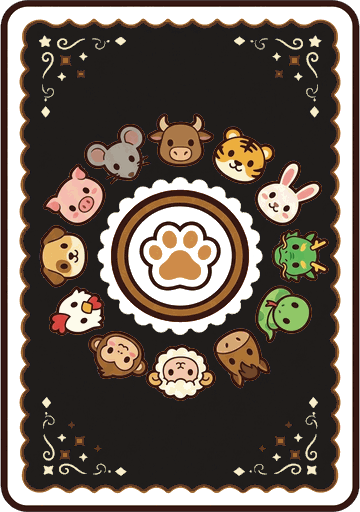
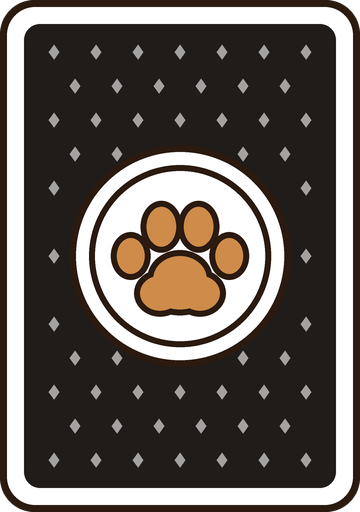
feat(casino): 트럼프 뒷면을 단순하게 — 12띠 얼굴 빼고 흐린 마름모 · 큰 흰 원 · 발바닥 (휴대폰에서 작게 보여도 깔끔)

diff --git a/games/lib/cards.ts b/games/lib/cards.ts
@@ -56,8 +56,8 @@ export function drawTable(scene: Scene, game: 'matgo' | 'poker' | 'holdem' | 'bl
 // ---------- 카드 뒷면 ----------
 
 /**
- * 카드 뒷면: 트럼프는 흰 테두리 + --card-back(짙은 먹색), 화투는 --primary(노랑) 바탕에 12띠가 원형으로 둘러선 문양. 한 번만 그려 텍스처로 둔다.
- * back-casino: 트럼프 / back-hwatu: 화투 (같은 무늬, 화투 비율)
+ * 카드 뒷면: 트럼프는 흰 테두리 + --card-back(짙은 먹색) + 가운데 흰 원·발바닥, 화투는 --primary(노랑) 바탕에 12띠가 원형으로 둘러선 문양. 한 번만 그려 텍스처로 둔다.
+ * back-casino: 트럼프 / back-hwatu: 화투 (화투 비율)
  */
 export function cardBack(scene: Scene, key: 'back-casino' | 'back-hwatu') {
   if (scene.textures.exists(key)) return key;
@@ -69,10 +69,25 @@ export function cardBack(scene: Scene, key: 'back-casino' | 'back-hwatu') {
   const r = key === 'back-hwatu' ? 18 : 16;
   g.fillStyle(C.outline, 1).fillRoundedRect(0, 0, W, H, r);
   if (key === 'back-casino') {
-    // 트럼프: 흰 테두리 띠 안에 짙은 먹색 바탕
+    // 트럼프 (그림 shared/images/cards/back.png 와 같은 단순한 모양): 흰 테두리 띠 · 먹색 바탕 · 가운데 흰 원 + 발바닥
     g.fillStyle(C.white, 1).fillRoundedRect(4, 4, W - 8, H - 8, r - 3);
     g.fillStyle(C.cardBack, 1).fillRoundedRect(9, 9, W - 18, H - 18, r - 5);
-  } else g.fillStyle(C.primary, 1).fillRoundedRect(4, 4, W - 8, H - 8, r - 3);
+    const cx = W / 2;
+    const cy = H / 2;
+    g.fillStyle(C.white, 1).fillCircle(cx, cy, W * 0.29);
+    g.lineStyle(2.5, C.outline, 1).strokeCircle(cx, cy, W * 0.24);
+    // 발바닥: 큰 패드 하나 + 발가락 넷
+    g.fillStyle(C.primaryDeep, 1).fillEllipse(cx, cy + 8, 30, 24);
+    g.lineStyle(2.5, C.outline, 1).strokeEllipse(cx, cy + 8, 30, 24);
+    for (const [dx, dy] of [[-17, -4], [-7, -14], [7, -14], [17, -4]]) {
+      g.fillStyle(C.primaryDeep, 1).fillEllipse(cx + dx, cy + dy, 10, 13);
+      g.lineStyle(2, C.outline, 1).strokeEllipse(cx + dx, cy + dy, 10, 13);
+    }
+    rt.draw(g);
+    g.destroy();
+    return key;
+  }
+  g.fillStyle(C.primary, 1).fillRoundedRect(4, 4, W - 8, H - 8, r - 3);
   g.lineStyle(3, C.white, 0.9).strokeRoundedRect(11, 11, W - 22, H - 22, r - 6);
   g.fillStyle(C.panel, 1).fillCircle(W / 2, H / 2, W * 0.43);
   g.lineStyle(3, C.outline, 1).strokeCircle(W / 2, H / 2, W * 0.43);

diff --git a/games/lib/shell.ts b/games/lib/shell.ts
@@ -842,7 +842,7 @@ async function roomScreen(ui: GameUI, m: Mods, me: WorldUser, roomId: string) {
           this.load.image(`full-${z}`, m.z.fullUrl(z));
         }
         // 트럼프 뒷면 그림 (못 불러오면 cards.ts가 코드로 그린다)
-        this.load.image('back-casino', new URL('shared/images/cards/back.png?v=ink5', worldRoot()).href);
+        this.load.image('back-casino', new URL('shared/images/cards/back.png?v=simple1', worldRoot()).href);
         ui.preload?.(this, m.z.avatarUrl);
       },
       create(this: PhaserNS.Scene) {

diff --git a/scripts/make-card-back.py b/scripts/make-card-back.py
@@ -1,0 +1,77 @@
+# 카지노 트럼프 뒷면 (shared/images/cards/back.png) 그리기. 저장소 루트에서: python scripts/make-card-back.py
+# 11-26 C안: 먹색 바탕 + 흐린 작은 마름모 + 흰 테두리 띠 + 가운데 흰 원 + 주황 발바닥 (A·B안도 back() 인자로 다시 그릴 수 있다)
+import os, math
+from PIL import Image, ImageDraw
+
+REPO = os.path.dirname(os.path.dirname(os.path.abspath(__file__)))
+W, H, SS = 360, 512, 4
+
+def rgb(n, a=255): return ((n >> 16) & 255, (n >> 8) & 255, n & 255, a)
+OUTLINE = rgb(0x2a1a10); INK = rgb(0x1f1c1a); WHITE = rgb(0xffffff)
+PAW = (206, 139, 73, 255)          # 지금 뒷면의 발바닥 주황 (그림에서 읽은 값)
+FELTS = [rgb(0x468c59), rgb(0x4b7fb4)]
+
+def paw(d, cx, cy, s, fill, edge=None, ew=0):
+    """발바닥: 큰 볼록살 + 발가락 4개. s = 전체 폭. edge 가 있으면 먼저 조금 크게 그려 테두리로."""
+    def shapes(g, col):
+        e = lambda x, y, rx, ry: d.ellipse([cx + (x - rx) * s - g, cy + (y - ry) * s - g, cx + (x + rx) * s + g, cy + (y + ry) * s + g], fill=col)
+        # 볼록살 (둥근 세모: 원 셋 + 가운데)
+        e(0, 0.14, 0.2, 0.17); e(-0.15, 0.25, 0.15, 0.13); e(0.15, 0.25, 0.15, 0.13); e(0, 0.24, 0.2, 0.13)
+        # 발가락
+        e(-0.37, -0.03, 0.105, 0.135); e(0.37, -0.03, 0.105, 0.135)
+        e(-0.14, -0.25, 0.11, 0.15); e(0.14, -0.25, 0.11, 0.15)
+    if edge: shapes(ew, edge)
+    shapes(0, fill)
+
+def flower(d, cx, cy, s, fill, hole):
+    for i in range(5):
+        a = -math.pi / 2 + i * 2 * math.pi / 5
+        x, y = cx + math.cos(a) * s * 0.27, cy + math.sin(a) * s * 0.27
+        d.ellipse([x - s * 0.22, y - s * 0.22, x + s * 0.22, y + s * 0.22], fill=fill)
+    d.ellipse([cx - s * 0.13, cy - s * 0.13, cx + s * 0.13, cy + s * 0.13], fill=hole)
+
+def diamond(d, cx, cy, s, fill):
+    d.polygon([(cx, cy - s), (cx + s * 0.72, cy), (cx, cy + s), (cx - s * 0.72, cy)], fill=fill)
+
+def back(pattern, R=104, soft=255):
+    """pattern: 'none' | 'paws' | 'diamonds' | 'ring'.  R = 가운데 원 반지름"""
+    k = SS
+    img = Image.new('RGBA', (W * k, H * k), (0, 0, 0, 0)); d = ImageDraw.Draw(img)
+    rr = lambda m, r, col: d.rounded_rectangle([m * k, m * k, (W - m) * k - 1, (H - m) * k - 1], r * k, fill=col)
+    rr(0, 34, OUTLINE)          # 굵은 갈색 테두리
+    rr(7, 28, WHITE)            # 흰 테두리 띠
+    rr(24, 16, INK)             # 먹색 바탕
+    cx, cy = W * k / 2, H * k / 2
+    pc = (255, 255, 255, soft)
+    lay = Image.new('RGBA', img.size, (0, 0, 0, 0)); ld = ImageDraw.Draw(lay)
+    far = lambda x, y, m: math.hypot(x - W / 2, y - H / 2) > R + m
+    if pattern == 'paws':
+        # 화투 뒷면처럼: 4칸 × 8줄, 발자국과 꽃이 번갈아
+        xs = [66, 142, 218, 294]; ys = [61 + i * 55.7 for i in range(8)]
+        for j, y in enumerate(ys):
+            for i, x in enumerate(xs):
+                if not far(x, y, 22): continue
+                if (i + j) % 2 == 0: paw(ld, x * k, y * k, 34 * k, pc)
+                else: flower(ld, x * k, y * k, 30 * k, pc, INK)
+    elif pattern == 'diamonds':
+        # 엇갈린 작은 마름모
+        row = 0; y = 52
+        while y < H - 40:
+            x = 54 + (21 if row % 2 else 0)
+            while x < W - 44:
+                if far(x, y, 14): diamond(ld, x * k, y * k, 7.5 * k, pc)
+                x += 42
+            y += 34; row += 1
+    elif pattern == 'ring':
+        # 안쪽에 흰 가는 줄 하나 (무늬 없이 액자만)
+        ld.rounded_rectangle([38 * k, 38 * k, (W - 38) * k, (H - 38) * k], 10 * k, outline=pc, width=int(4 * k))
+    img.alpha_composite(lay)
+    d = ImageDraw.Draw(img)
+    circ = lambda r, col: d.ellipse([cx - r * k, cy - r * k, cx + r * k, cy + r * k], fill=col)
+    circ(R + 7, OUTLINE)        # 원 바깥 갈색 선 (화투 뒷면처럼 원이 또렷하게)
+    circ(R, WHITE)
+    circ(R - 13, OUTLINE); circ(R - 19, WHITE)   # 안쪽 고리
+    paw(d, cx, cy + 4 * k, (R * 1.28) * k, PAW, OUTLINE, 6 * k)
+    return img.resize((W, H), Image.LANCZOS)
+
+back('diamonds', R=104, soft=150).save(os.path.join(REPO, 'shared', 'images', 'cards', 'back.png'))
